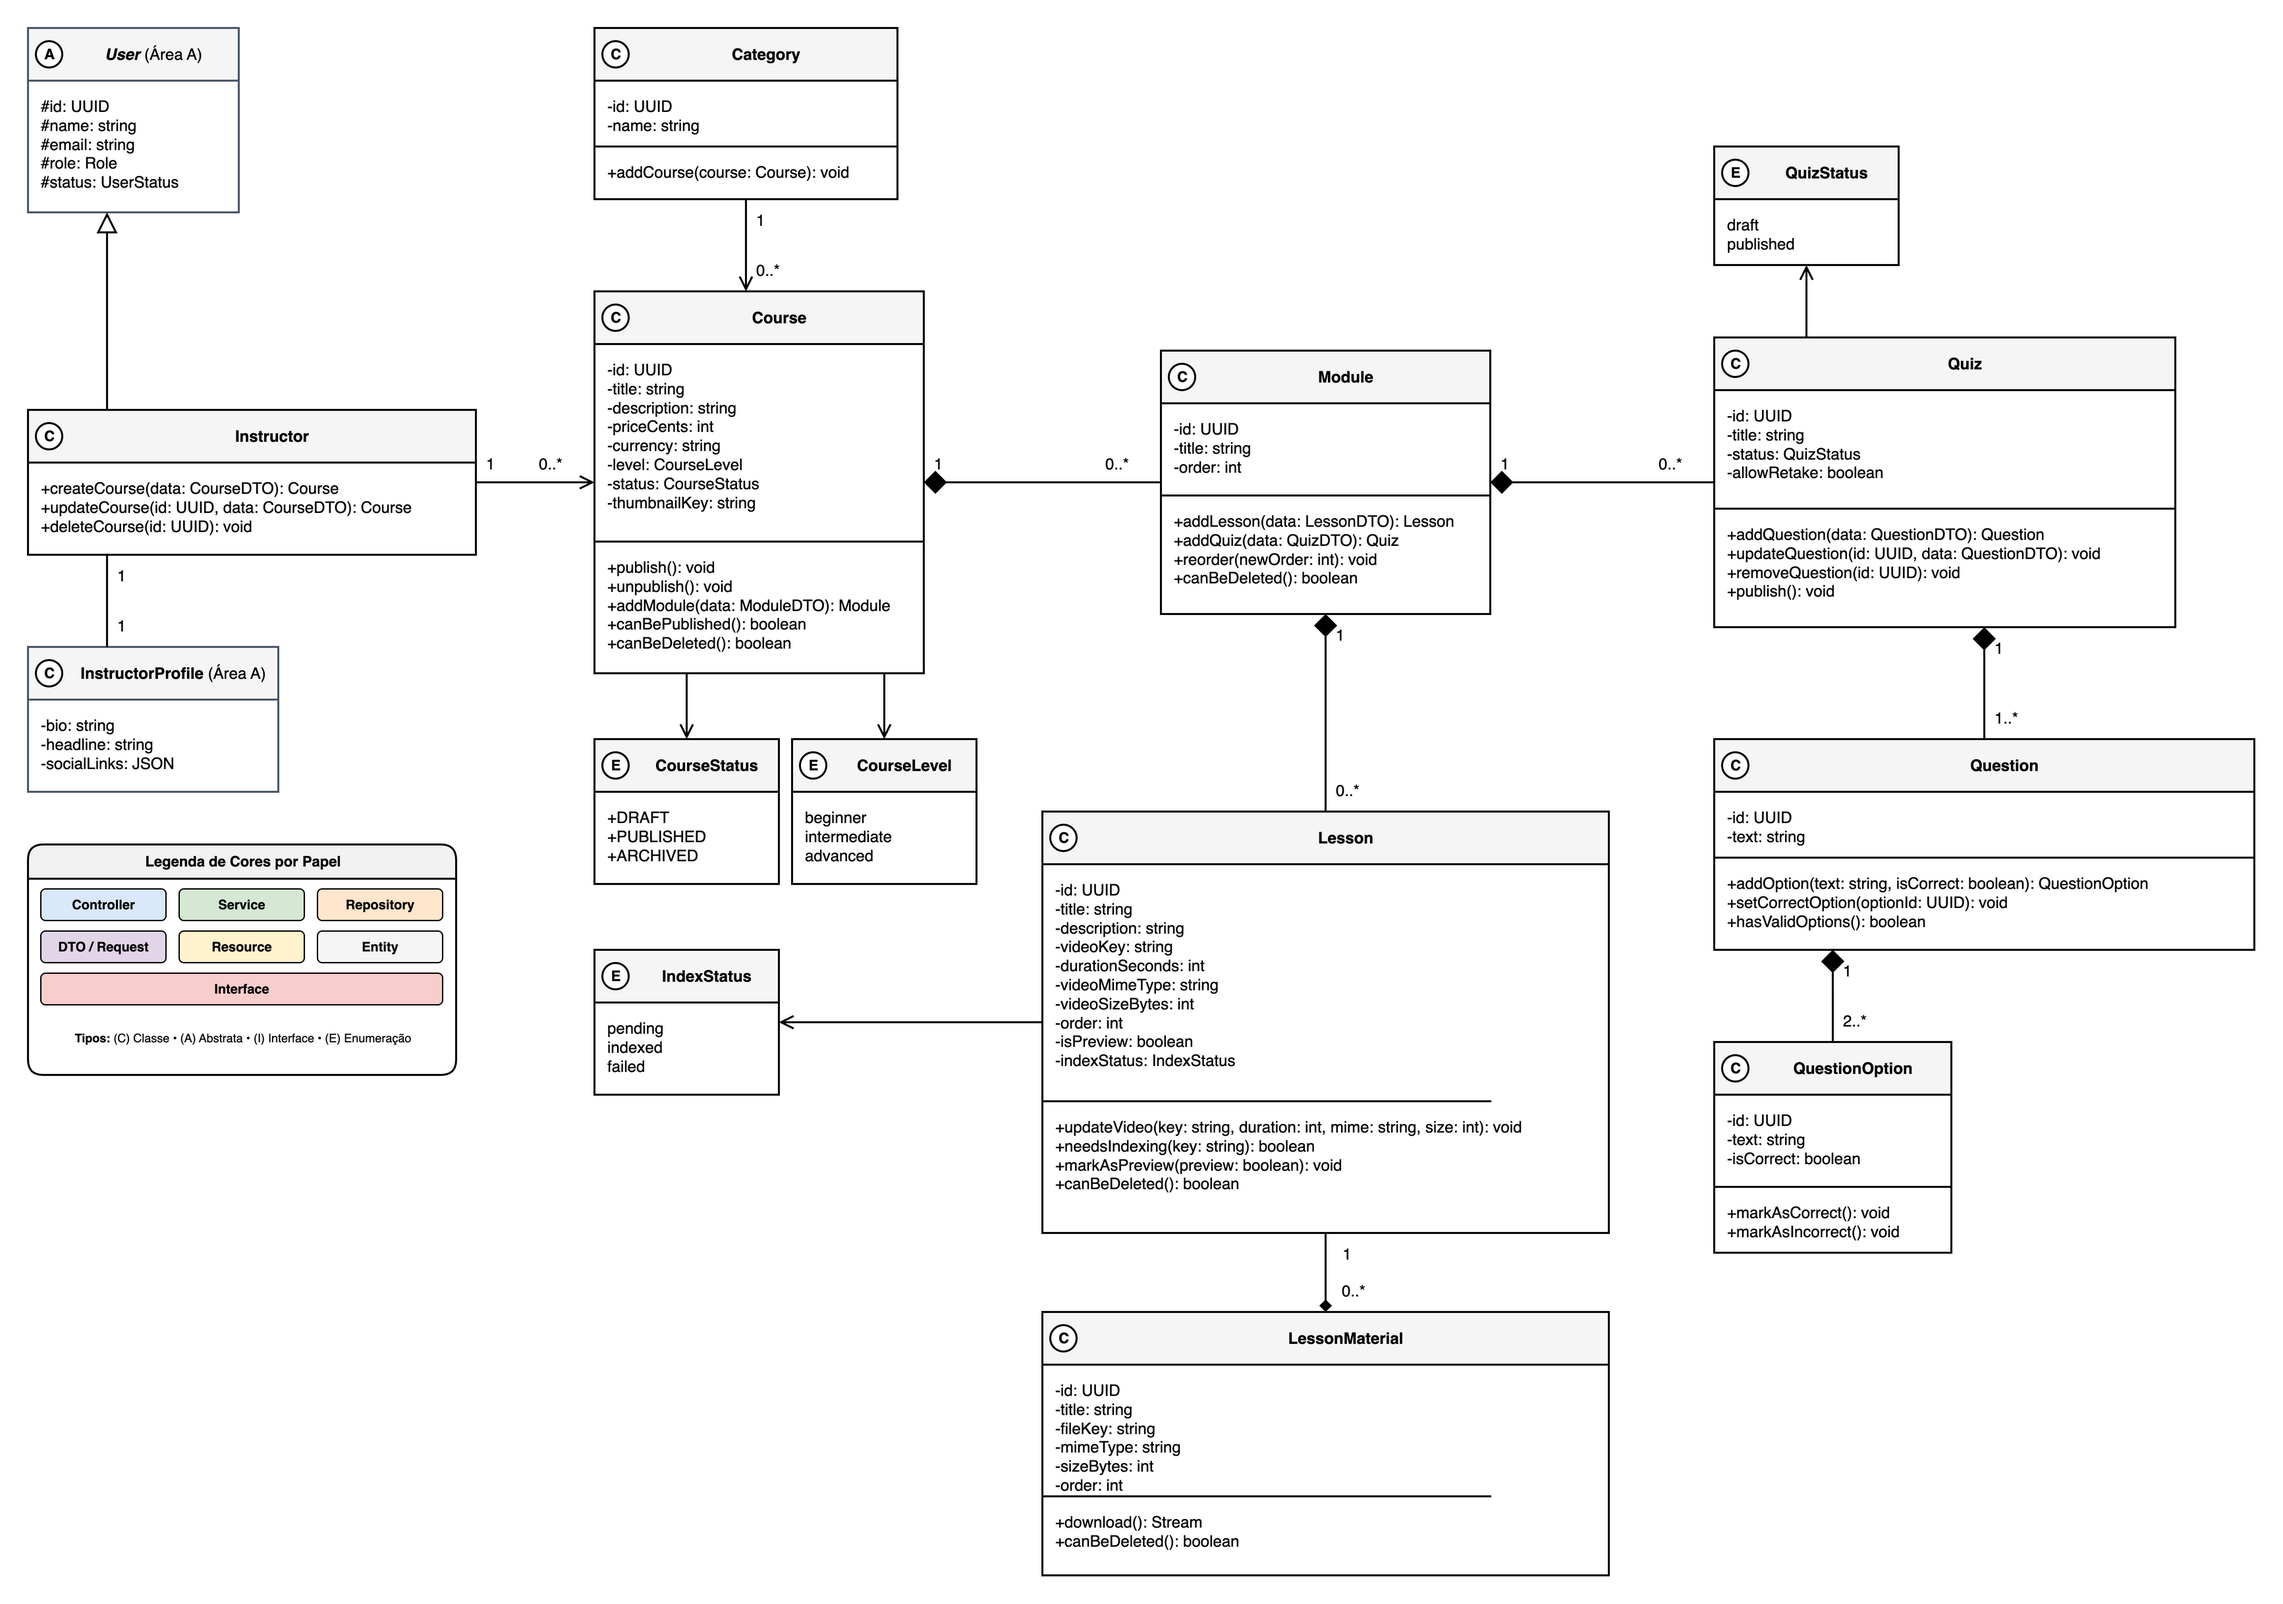
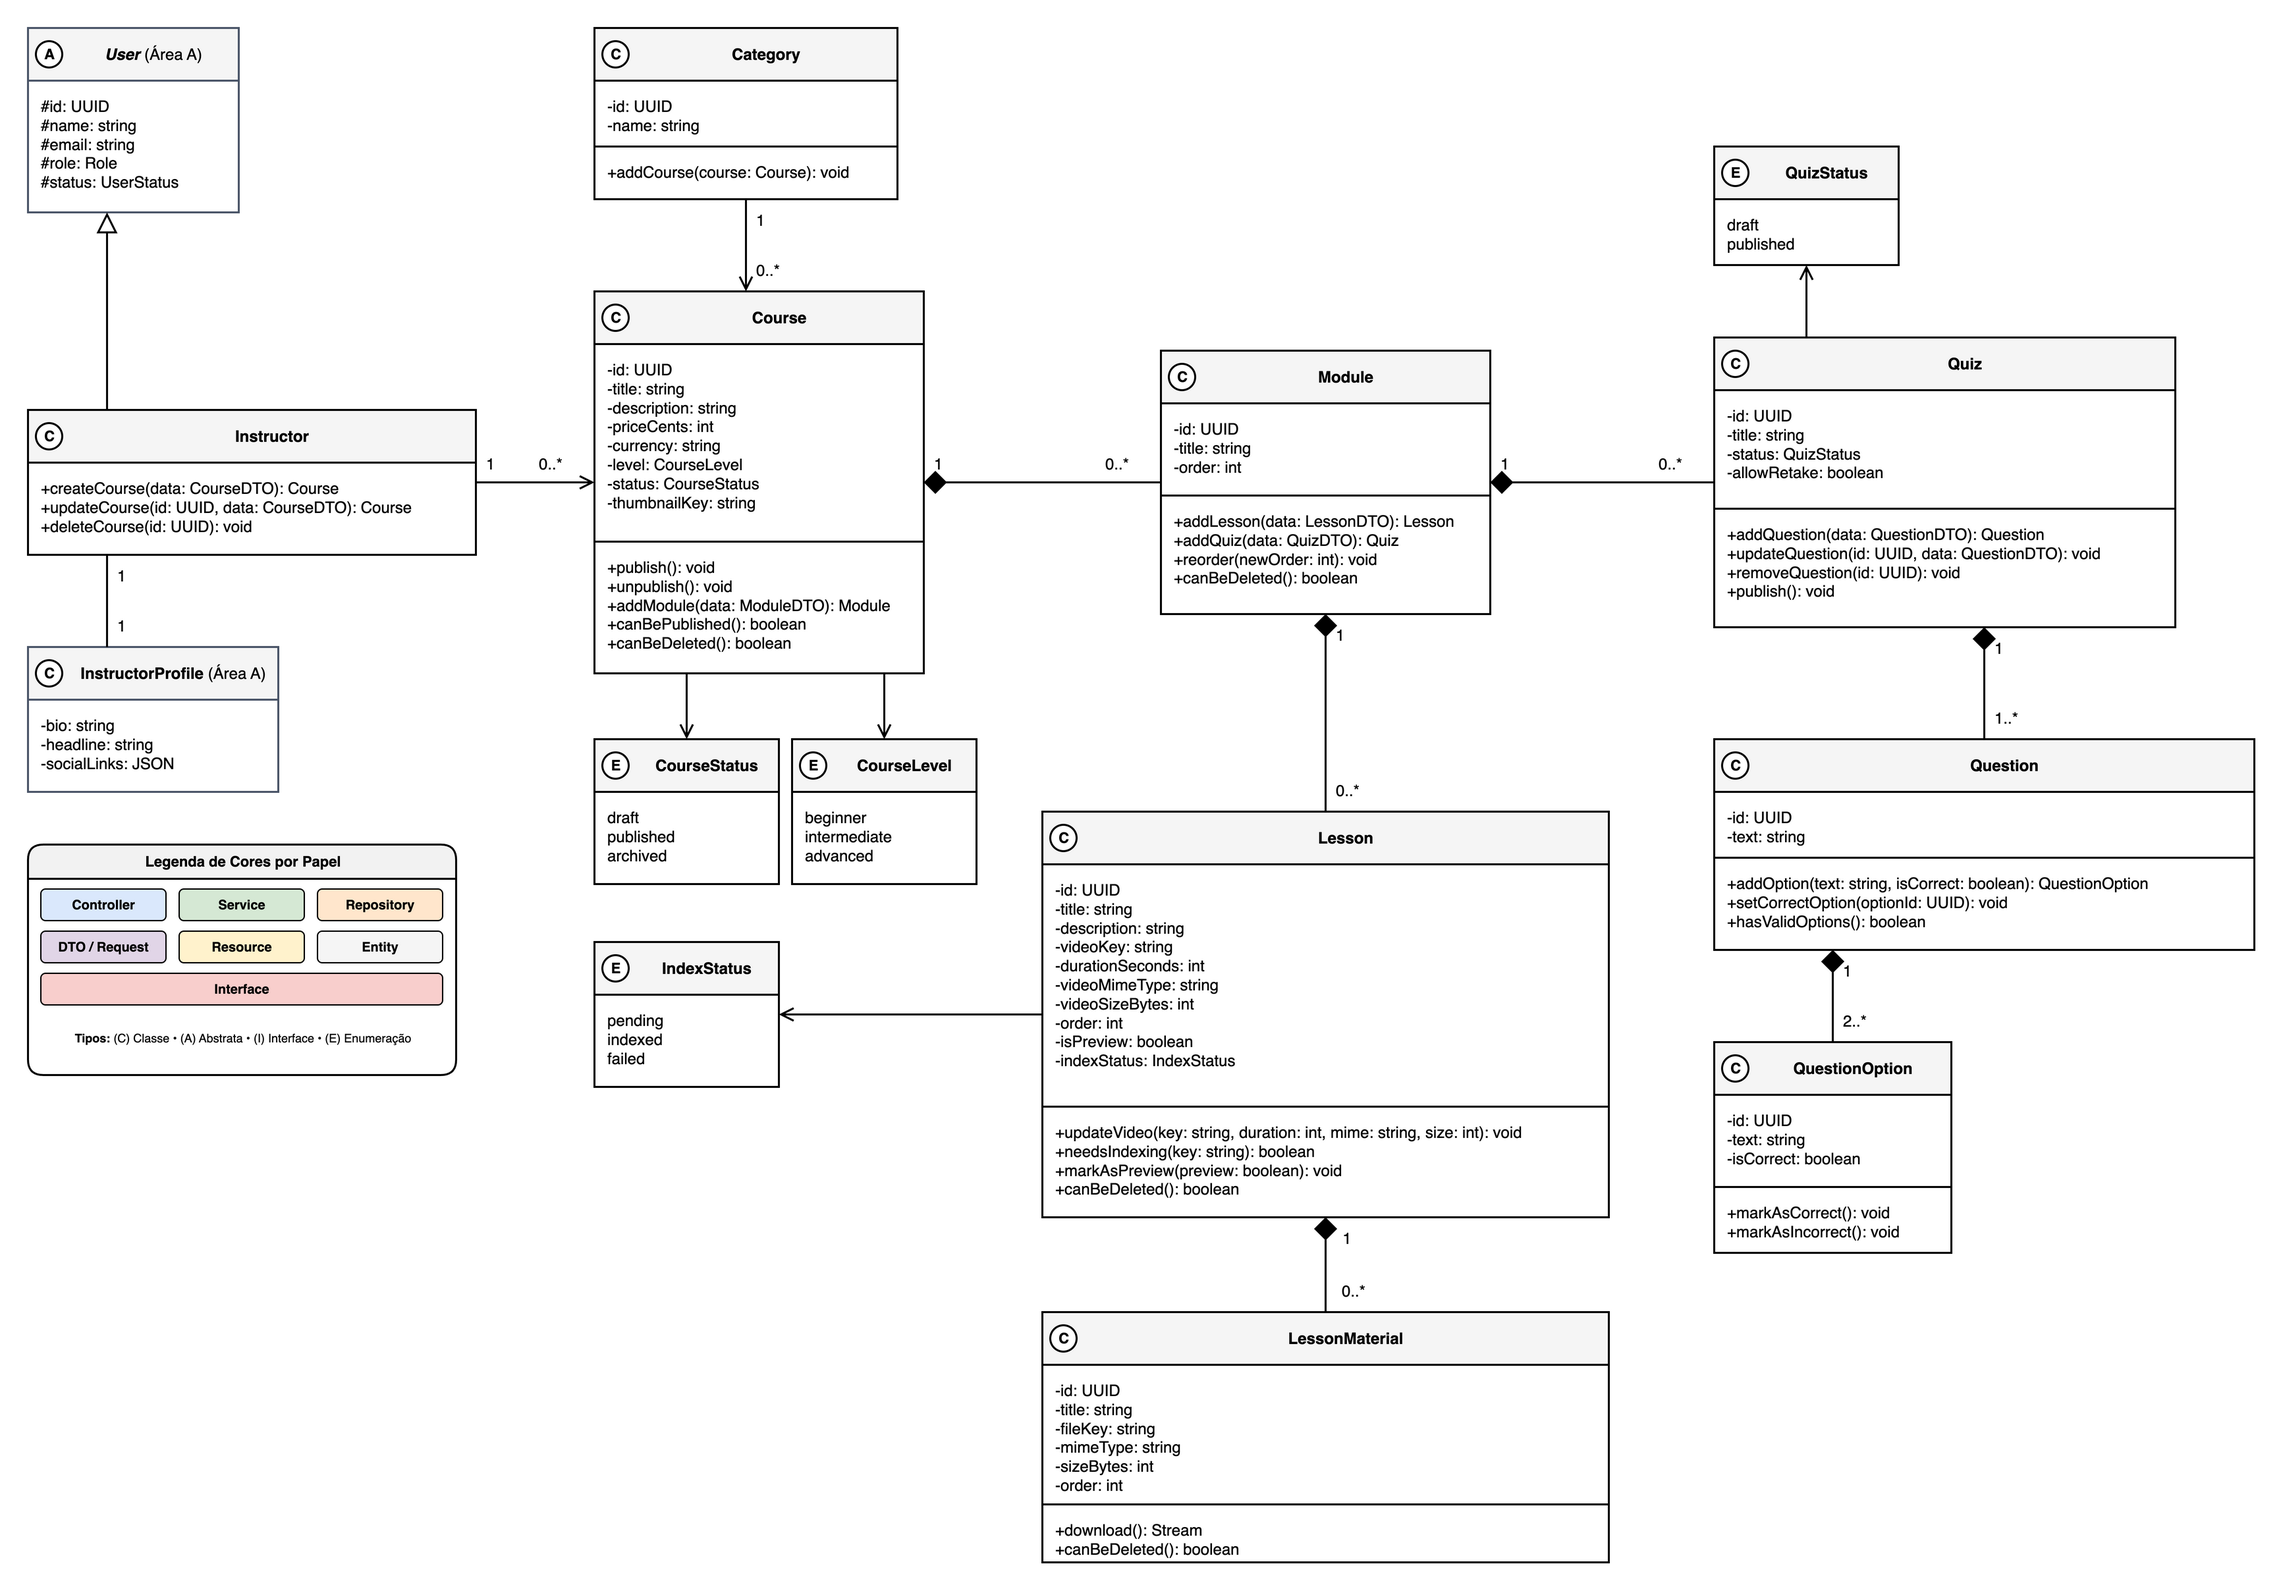
docs(classes-area-b): fix negocial class diagram separators, composition and enum values
The attribute/method separator in Lesson and LessonMaterial stopped at
three quarters of the box width, and the boxes had empty space under
the methods. The Lesson to LessonMaterial composition diamond sat on the
part side, which reads as Lesson being owned by LessonMaterial; Module to
Lesson already puts it on the whole. CourseStatus values were written as
+DRAFT, +PUBLISHED and +ARCHIVED while the other enums and the database
use lowercase names without a visibility sign. The separators now span
the full box width, the boxes fit their content, the diamond is on
Lesson, and the enum values are draft, published and archived.

(cherry picked from commit 6177587960d959c904bb5278772f88cea85d62cd)

diff --git a/CHANGELOG.md b/CHANGELOG.md
@@ -46,6 +46,7 @@ Registro do caminho do documento de especificação da Plataforma de Cursos até
 - Item 12 (Modelo de dados): tabelas da Área B renomeadas para snake_case no plural (`courses`, `lessons`, `lesson_materials`, `question_options`), como a Área A, e setas e multiplicidades do `.drawio` realinhadas, para o dicionário e o diagrama seguirem a convenção da ADR-0015 (#TBD).
 - Item 13 (Diagrama de classes da Área B, implementação de aulas): leiaute refeito, com as setas do Controller, do Service e do Repository retas e separadas, sem seta cruzando caixa ou texto, e as entidades Lesson e LessonMaterial ligadas ao Repository, na ordem Controller, Service, Repository e Entity, para o diagrama ficar legível (#TBD).
 - Item 13 (Diagramas de classes da Área B: cursos e módulos, quizzes e negocial): leiaute refeito em colunas Controller, Service, Repository e Entity, com setas retas e sem cruzamento, rótulos de multiplicidade junto da ponta e texto dentro das caixas (#TBD).
+- Item 13 (Diagrama negocial da Área B): separadores de Lesson e LessonMaterial na largura total da caixa, composição Lesson-LessonMaterial com o losango no Lesson (todo) e valores de CourseStatus em draft, published e archived, como nos demais enums (#TBD).
 - Item 10 (Especificações de caso de uso): fluxos de cancelamento incluídos em UC004, UC006, UC014 e UC015 (decisão B1); UC015 atualizado com upload de vídeo pela API, video_key obrigatório e gestão de material complementar (decisões B2, B3, B4) (#TBD).
 - Item 7 (Estórias de usuário): US006 atualizada com escopo e critérios de aceite para materiais complementares da aula em PDF (decisão B4) (#TBD).
 - Item 6 (Requisitos funcionais): RF004 atualizado para incluir o gerenciamento e upload de material complementar da aula pela API (decisão B4) (#TBD).
